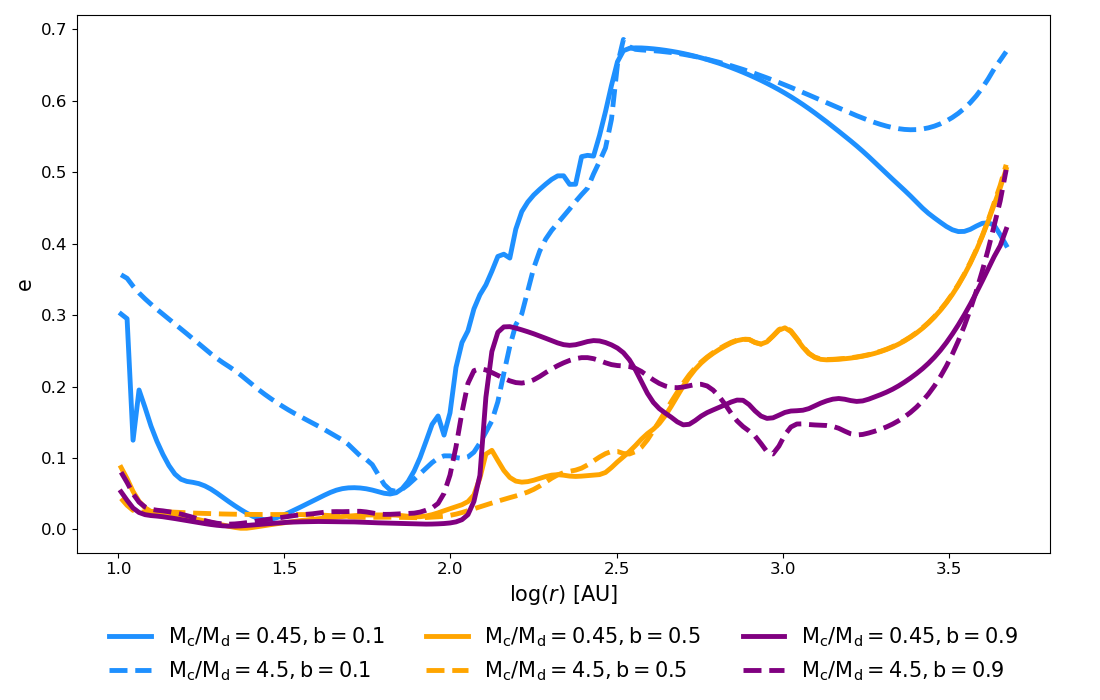
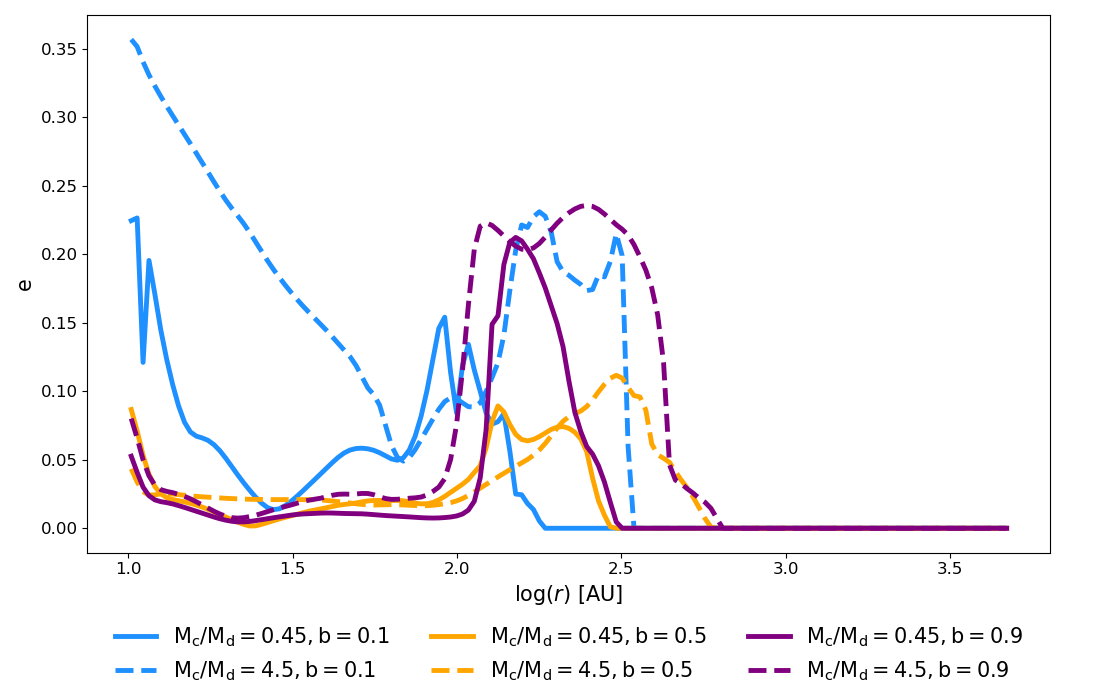
updated param study e plots with only disk eccentricities

diff --git a/param_study.py b/param_study.py
@@ -6,7 +6,7 @@ from read import get_domain_spherical, get_data, load_par_file, get_param_value
 import matplotlib.pyplot as plt
 from matplotlib.lines import Line2D
 import colormaps as cmaps
-from analysis import calc_cell_volume, calc_mass, sph_to_cart, calc_simtime, calc_LRL, calc_eccen, vel_sph_to_cart, centering, calc_angular_momentum, isolate_disk, calc_L_average, calc_inc_twist, calc_whirl, calc_total_L, ini_cloudlet_pos, isolate_outer_disk
+from analysis import calc_cell_volume, calc_mass, sph_to_cart, calc_simtime, calc_LRL, calc_eccen, vel_sph_to_cart, centering, calc_angular_momentum, isolate_disk, calc_L_average, calc_e_average, calc_inc_twist, calc_whirl, calc_total_L, ini_cloudlet_pos, isolate_outer_disk
 from accretion import scale_height, calc_accretion
 from no_thoughts_just_plots import param_study_plot, make_evol_GIF, load_sciviscolor_colormaps
 import astropy.constants as c
@@ -164,13 +164,11 @@ def main():
             mass_i = calc_mass(rho_i, cell_volume)
             mass_allit.append(mass_i)
             Lx_i, Ly_i, Lz_i = calc_angular_momentum(mass_i, X, Y, ZCYL, vx_i, vy_i, vz_i)
-            Ax_i, Ay_i, Az_i = calc_LRL(mass_i, Mstar, vx_c_i, vy_c_i, vz_c_i, Lx_i, Ly_i, Lz_i, X_c, Y_c, Z_c)
-            ex_i, ey_i, ez_i = calc_eccen(Ax_i, Ay_i, Az_i, mass_i, Mstar)
 
             # Isolating the warped/broken disk
             warp_thresh = -17   # log of density threshold for which we can see the warp in the primary
             warp_buffer = 500   # Isolates a box of 2 * warp_buffer around the star (AU)
-            rho_c_warp_i, _, _, _, Lx_c_warp_i, Ly_c_warp_i, Lz_c_warp_i, _ = isolate_disk(X_c, Y_c, Z_c, Px * au, Py * au, Pz * au, warp_buffer * au, rho_c_i, vx_c_i, vy_c_i, vz_c_i, Lx_i, Ly_i, Lz_i, warp_thresh) 
+            rho_c_warp_i, vx_c_warp_i, vy_c_warp_i, vz_c_warp_i, Lx_c_warp_i, Ly_c_warp_i, Lz_c_warp_i, _ = isolate_disk(X_c, Y_c, Z_c, Px * au, Py * au, Pz * au, warp_buffer * au, rho_c_i, vx_c_i, vy_c_i, vz_c_i, Lx_i, Ly_i, Lz_i, warp_thresh) 
 
             # Calculating the warped/broken disk mass 
             disk_mass_radial_i = np.nansum(rho_c_warp_i * cell_volume, axis=(0,2))
@@ -180,11 +178,10 @@ def main():
             # print(f"Disk mass: {disk_mass_i/Msun:.4f} Msun, {disk_mass_i:.2e} g")
             disk_mass_allit.append(disk_mass_i)
 
-            ex_avg_i = np.nansum(ex_i * mass_i, axis=(0,2)) / np.sum(mass_i, axis=(0,2))
-            ey_avg_i = np.nansum(ey_i * mass_i, axis=(0,2)) / np.sum(mass_i, axis=(0,2))
-            ez_avg_i = np.nansum(ez_i * mass_i, axis=(0,2)) / np.sum(mass_i, axis=(0,2))
-            eavg_i = np.sqrt(ex_avg_i**2 + ey_avg_i**2 + ez_avg_i**2)
-            e_allit.append(eavg_i)
+            Ax_warp_i, Ay_warp_i, Az_warp_i = calc_LRL(mass_i, Mstar, vx_c_warp_i, vy_c_warp_i, vz_c_warp_i, Lx_c_warp_i, Ly_c_warp_i, Lz_c_warp_i, X_c, Y_c, Z_c)
+            ex_warp_i, ey_warp_i, ez_warp_i = calc_eccen(Ax_warp_i, Ay_warp_i, Az_warp_i, mass_i, Mstar)
+            eavg_disk_i = calc_e_average(ex_warp_i, ey_warp_i, ez_warp_i, mass_i)
+            e_allit.append(eavg_disk_i)
 
             # Calculating inclination, twist in the disk and saving the radial averages
             Lx_warp_avg_i, Ly_warp_avg_i, Lz_warp_avg_i = calc_L_average(Lx_c_warp_i, Ly_c_warp_i, Lz_c_warp_i, mass_i)
@@ -649,8 +646,9 @@ def main():
 
     ax.set_xlabel(r"$\log(r)$ [AU]")
     ax.set_ylabel(r"e")
-    # ax.set_title(fr"$\mathrm{e}$ vs logr (53 kyr) $(\mathrm{{\rho \geq 10^{warp_thresh}}})$")
-    ax.legend(loc='upper center', bbox_to_anchor=(0.5, -0.1), ncol=3, frameon=False) 
+    leg1 = ax.legend(handles=style_legend, loc="upper left", frameon=False)
+    ax.add_artist(leg1)
+    ax.legend(handles=color_legend, loc='upper center', bbox_to_anchor=(0.5, -0.1), ncol=2, frameon=False)
     plt.tight_layout()
     plt.savefig(f'nice_plots_correct/param_study_e_final_iter_vs_r_warp{warp_thresh}.png')
     plt.show()

diff --git a/param_study_cmass.py b/param_study_cmass.py
@@ -5,7 +5,7 @@ from pathlib import Path
 from read import get_domain_spherical, get_data, load_par_file, get_param_value
 import matplotlib.pyplot as plt
 import colormaps as cmaps
-from analysis import calc_cell_volume, calc_mass, sph_to_cart, calc_simtime, calc_LRL, calc_eccen, vel_sph_to_cart, centering, calc_angular_momentum, isolate_disk, calc_L_average, calc_inc_twist, calc_whirl, calc_total_L, ini_cloudlet_pos, isolate_outer_disk
+from analysis import calc_cell_volume, calc_mass, sph_to_cart, calc_simtime, calc_LRL, calc_eccen, vel_sph_to_cart, centering, calc_angular_momentum, isolate_disk, calc_L_average, calc_e_average, calc_inc_twist, calc_whirl, calc_total_L, ini_cloudlet_pos, isolate_outer_disk
 from accretion import scale_height, calc_accretion
 from no_thoughts_just_plots import param_study_plot, make_evol_GIF, load_sciviscolor_colormaps
 import astropy.constants as c
@@ -155,13 +155,11 @@ def main():
             mass_i = calc_mass(rho_i, cell_volume)
             mass_allit.append(mass_i)
             Lx_i, Ly_i, Lz_i = calc_angular_momentum(mass_i, X, Y, ZCYL, vx_i, vy_i, vz_i)
-            Ax_i, Ay_i, Az_i = calc_LRL(mass_i, Mstar, vx_c_i, vy_c_i, vz_c_i, Lx_i, Ly_i, Lz_i, X_c, Y_c, Z_c)
-            ex_i, ey_i, ez_i = calc_eccen(Ax_i, Ay_i, Az_i, mass_i, Mstar) 
 
             # Isolating the warped/broken disk
             warp_thresh = -17   # log of density threshold for which we can see the warp in the primary
             warp_buffer = 500   # Isolates a box of 2 * warp_buffer around the star (AU)
-            rho_c_warp_i, _, _, _, Lx_c_warp_i, Ly_c_warp_i, Lz_c_warp_i, _ = isolate_disk(X_c, Y_c, Z_c, Px * au, Py * au, Pz * au, warp_buffer * au, rho_c_i, vx_c_i, vy_c_i, vz_c_i, Lx_i, Ly_i, Lz_i, warp_thresh) 
+            rho_c_warp_i, vx_c_warp_i, vy_c_warp_i, vz_c_warp_i, Lx_c_warp_i, Ly_c_warp_i, Lz_c_warp_i, _ = isolate_disk(X_c, Y_c, Z_c, Px * au, Py * au, Pz * au, warp_buffer * au, rho_c_i, vx_c_i, vy_c_i, vz_c_i, Lx_i, Ly_i, Lz_i, warp_thresh) 
 
             # Calculating the warped/broken disk mass 
             disk_mass_radial_i = np.nansum(rho_c_warp_i * cell_volume, axis=(0,2))
@@ -171,11 +169,10 @@ def main():
             # print(f"Disk mass: {disk_mass_i/Msun:.4f} Msun, {disk_mass_i:.2e} g")
             disk_mass_allit.append(disk_mass_i)
 
-            ex_avg_i = np.nansum(ex_i * mass_i, axis=(0,2)) / np.sum(mass_i, axis=(0,2))
-            ey_avg_i = np.nansum(ey_i * mass_i, axis=(0,2)) / np.sum(mass_i, axis=(0,2))
-            ez_avg_i = np.nansum(ez_i * mass_i, axis=(0,2)) / np.sum(mass_i, axis=(0,2))
-            eavg_i = np.sqrt(ex_avg_i**2 + ey_avg_i**2 + ez_avg_i**2)
-            e_allit.append(eavg_i)
+            Ax_warp_i, Ay_warp_i, Az_warp_i = calc_LRL(mass_i, Mstar, vx_c_warp_i, vy_c_warp_i, vz_c_warp_i, Lx_c_warp_i, Ly_c_warp_i, Lz_c_warp_i, X_c, Y_c, Z_c)
+            ex_warp_i, ey_warp_i, ez_warp_i = calc_eccen(Ax_warp_i, Ay_warp_i, Az_warp_i, mass_i, Mstar)
+            eavg_disk_i = calc_e_average(ex_warp_i, ey_warp_i, ez_warp_i, mass_i)
+            e_allit.append(eavg_disk_i)
 
             # Calculating inclination, twist in the disk and saving the radial averages
             Lx_warp_avg_i, Ly_warp_avg_i, Lz_warp_avg_i = calc_L_average(Lx_c_warp_i, Ly_c_warp_i, Lz_c_warp_i, mass_i)

diff --git a/param_study_b.py b/param_study_b.py
@@ -153,13 +153,11 @@ def main():
             mass_i = calc_mass(rho_i, cell_volume)
             mass_allit.append(mass_i)
             Lx_i, Ly_i, Lz_i = calc_angular_momentum(mass_i, X, Y, ZCYL, vx_i, vy_i, vz_i)
-            Ax_i, Ay_i, Az_i = calc_LRL(mass_i, Mstar, vx_c_i, vy_c_i, vz_c_i, Lx_i, Ly_i, Lz_i, X_c, Y_c, Z_c)
-            ex_i, ey_i, ez_i = calc_eccen(Ax_i, Ay_i, Az_i, mass_i, Mstar)
 
             # Isolating the warped/broken disk
             warp_thresh = -17   # log of density threshold for which we can see the warp in the primary
             warp_buffer = 500   # Isolates a box of 2 * warp_buffer around the star (AU)
-            rho_c_warp_i, _, _, _, Lx_c_warp_i, Ly_c_warp_i, Lz_c_warp_i, _ = isolate_disk(X_c, Y_c, Z_c, Px * au, Py * au, Pz * au, warp_buffer * au, rho_c_i, vx_c_i, vy_c_i, vz_c_i, Lx_i, Ly_i, Lz_i, warp_thresh) 
+            rho_c_warp_i, vx_c_warp_i, vy_c_warp_i, vz_c_warp_i, Lx_c_warp_i, Ly_c_warp_i, Lz_c_warp_i, _ = isolate_disk(X_c, Y_c, Z_c, Px * au, Py * au, Pz * au, warp_buffer * au, rho_c_i, vx_c_i, vy_c_i, vz_c_i, Lx_i, Ly_i, Lz_i, warp_thresh) 
 
             # Calculating the warped/broken disk mass 
             disk_mass_radial_i = np.nansum(rho_c_warp_i * cell_volume, axis=(0,2))
@@ -169,11 +167,11 @@ def main():
             # print(f"Disk mass: {disk_mass_i/Msun:.4f} Msun, {disk_mass_i:.2e} g")
             disk_mass_allit.append(disk_mass_i)
 
-            ex_avg_i = np.nansum(ex_i * mass_i, axis=(0,2)) / np.sum(mass_i, axis=(0,2))
-            ey_avg_i = np.nansum(ey_i * mass_i, axis=(0,2)) / np.sum(mass_i, axis=(0,2))
-            ez_avg_i = np.nansum(ez_i * mass_i, axis=(0,2)) / np.sum(mass_i, axis=(0,2))
-            eavg_i = np.sqrt(ex_avg_i**2 + ey_avg_i**2 + ez_avg_i**2)
-            e_allit.append(eavg_i)
+            # Calculating LRL vectors, eccentricities and mass-weighted radial averages of eccentricities of the disk only
+            Ax_warp_i, Ay_warp_i, Az_warp_i = calc_LRL(mass_i, Mstar, vx_c_warp_i, vy_c_warp_i, vz_c_warp_i, Lx_c_warp_i, Ly_c_warp_i, Lz_c_warp_i, X_c, Y_c, Z_c)
+            ex_warp_i, ey_warp_i, ez_warp_i = calc_eccen(Ax_warp_i, Ay_warp_i, Az_warp_i, mass_i, Mstar)
+            eavg_disk_i = calc_e_average(ex_warp_i, ey_warp_i, ez_warp_i, mass_i)
+            e_allit.append(eavg_disk_i)
 
             # Calculating inclination, twist in the disk and saving the radial averages
             Lx_warp_avg_i, Ly_warp_avg_i, Lz_warp_avg_i = calc_L_average(Lx_c_warp_i, Ly_c_warp_i, Lz_c_warp_i, mass_i)

diff --git a/time_evol.py b/time_evol.py
@@ -34,9 +34,9 @@ plt.rcParams['legend.fontsize'] = 12     # legend font size
 def main():
 
 
-    folder = Path("../cloud_disk_it450_b09_rotX45/")                        # Folder with the FARGO output files
-    # folder = Path("../fargo3d/outputs/cloud_disk_it450_b09_rotX45/")          # Folder with the FARGO output files (Binac2)
-    fig_imgs = Path("cloud_disk_it450_b09_rotX45/imgs/")                      # Folder to save images    
+    folder = Path("../cloud_disk_it450_cmass15_rotX45/")                        # Folder with the FARGO output files
+    # folder = Path("../fargo3d/outputs/cloud_disk_it450_cmass15_rotX45/")          # Folder with the FARGO output files (Binac2)
+    fig_imgs = Path("cloud_disk_it450_cmass15_rotX45/imgs/")                      # Folder to save images    
     iter_total = 450                                     # FARGO snapshot
 
     first_it = 100
